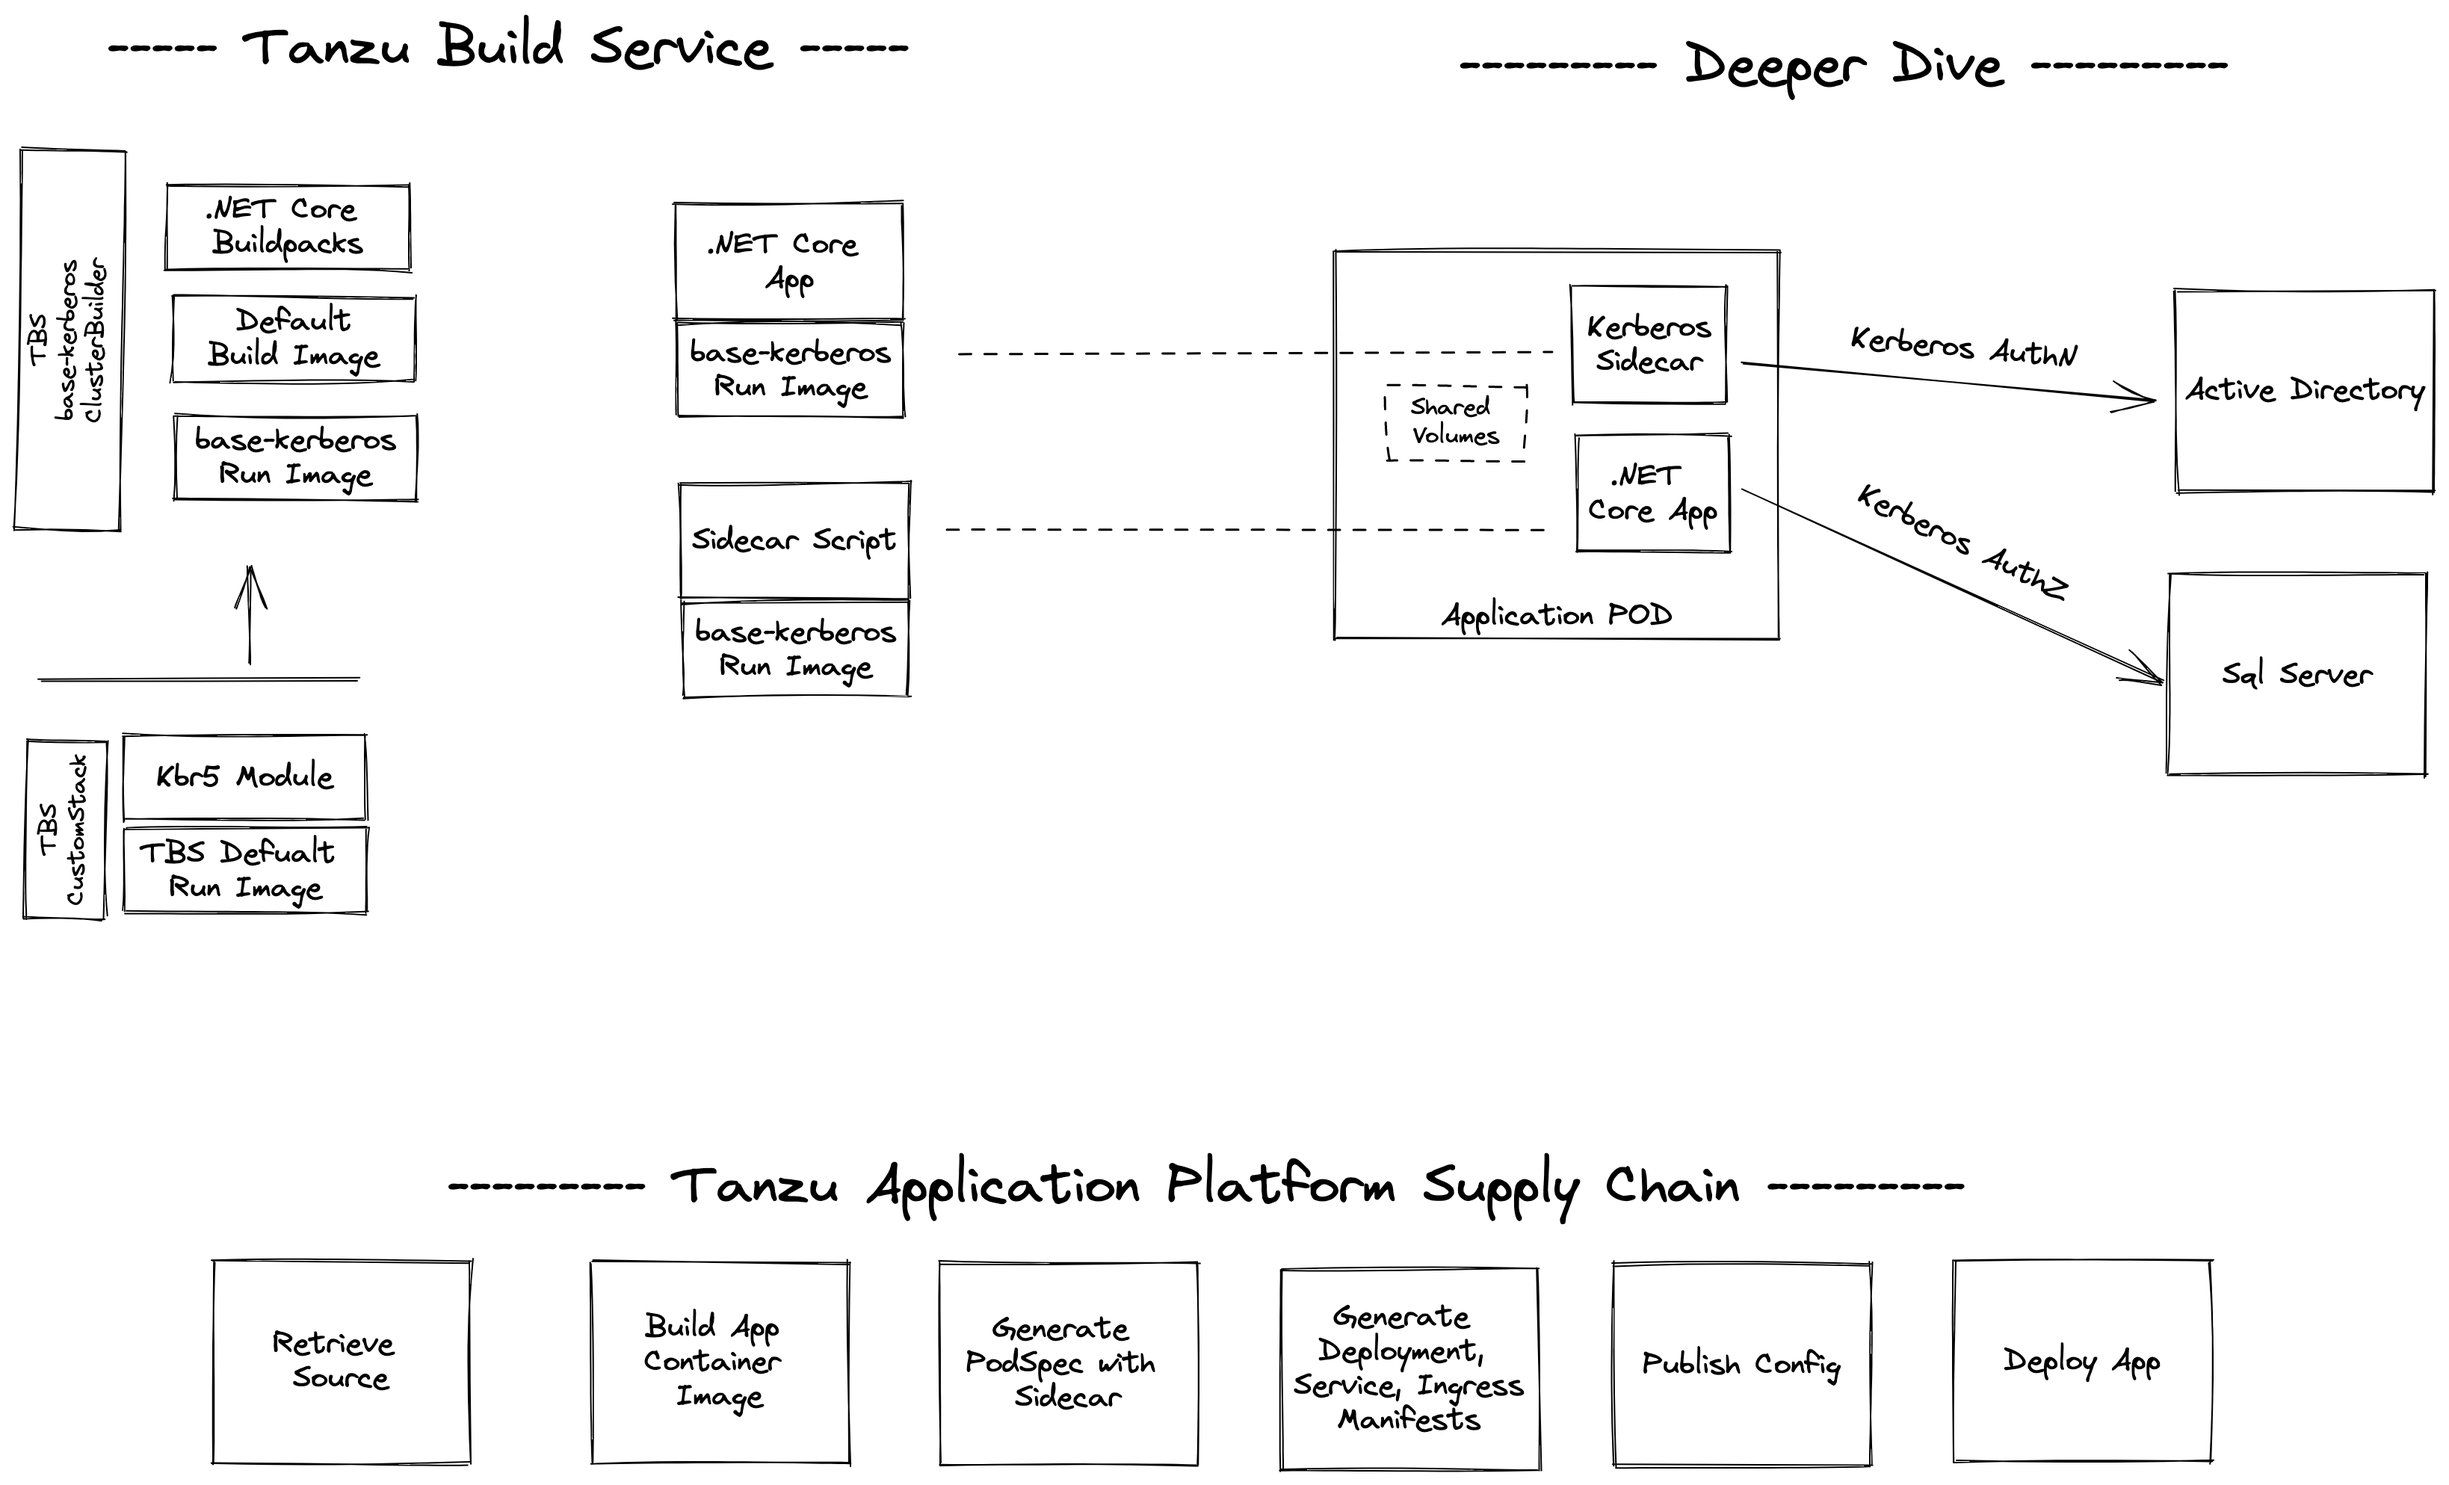
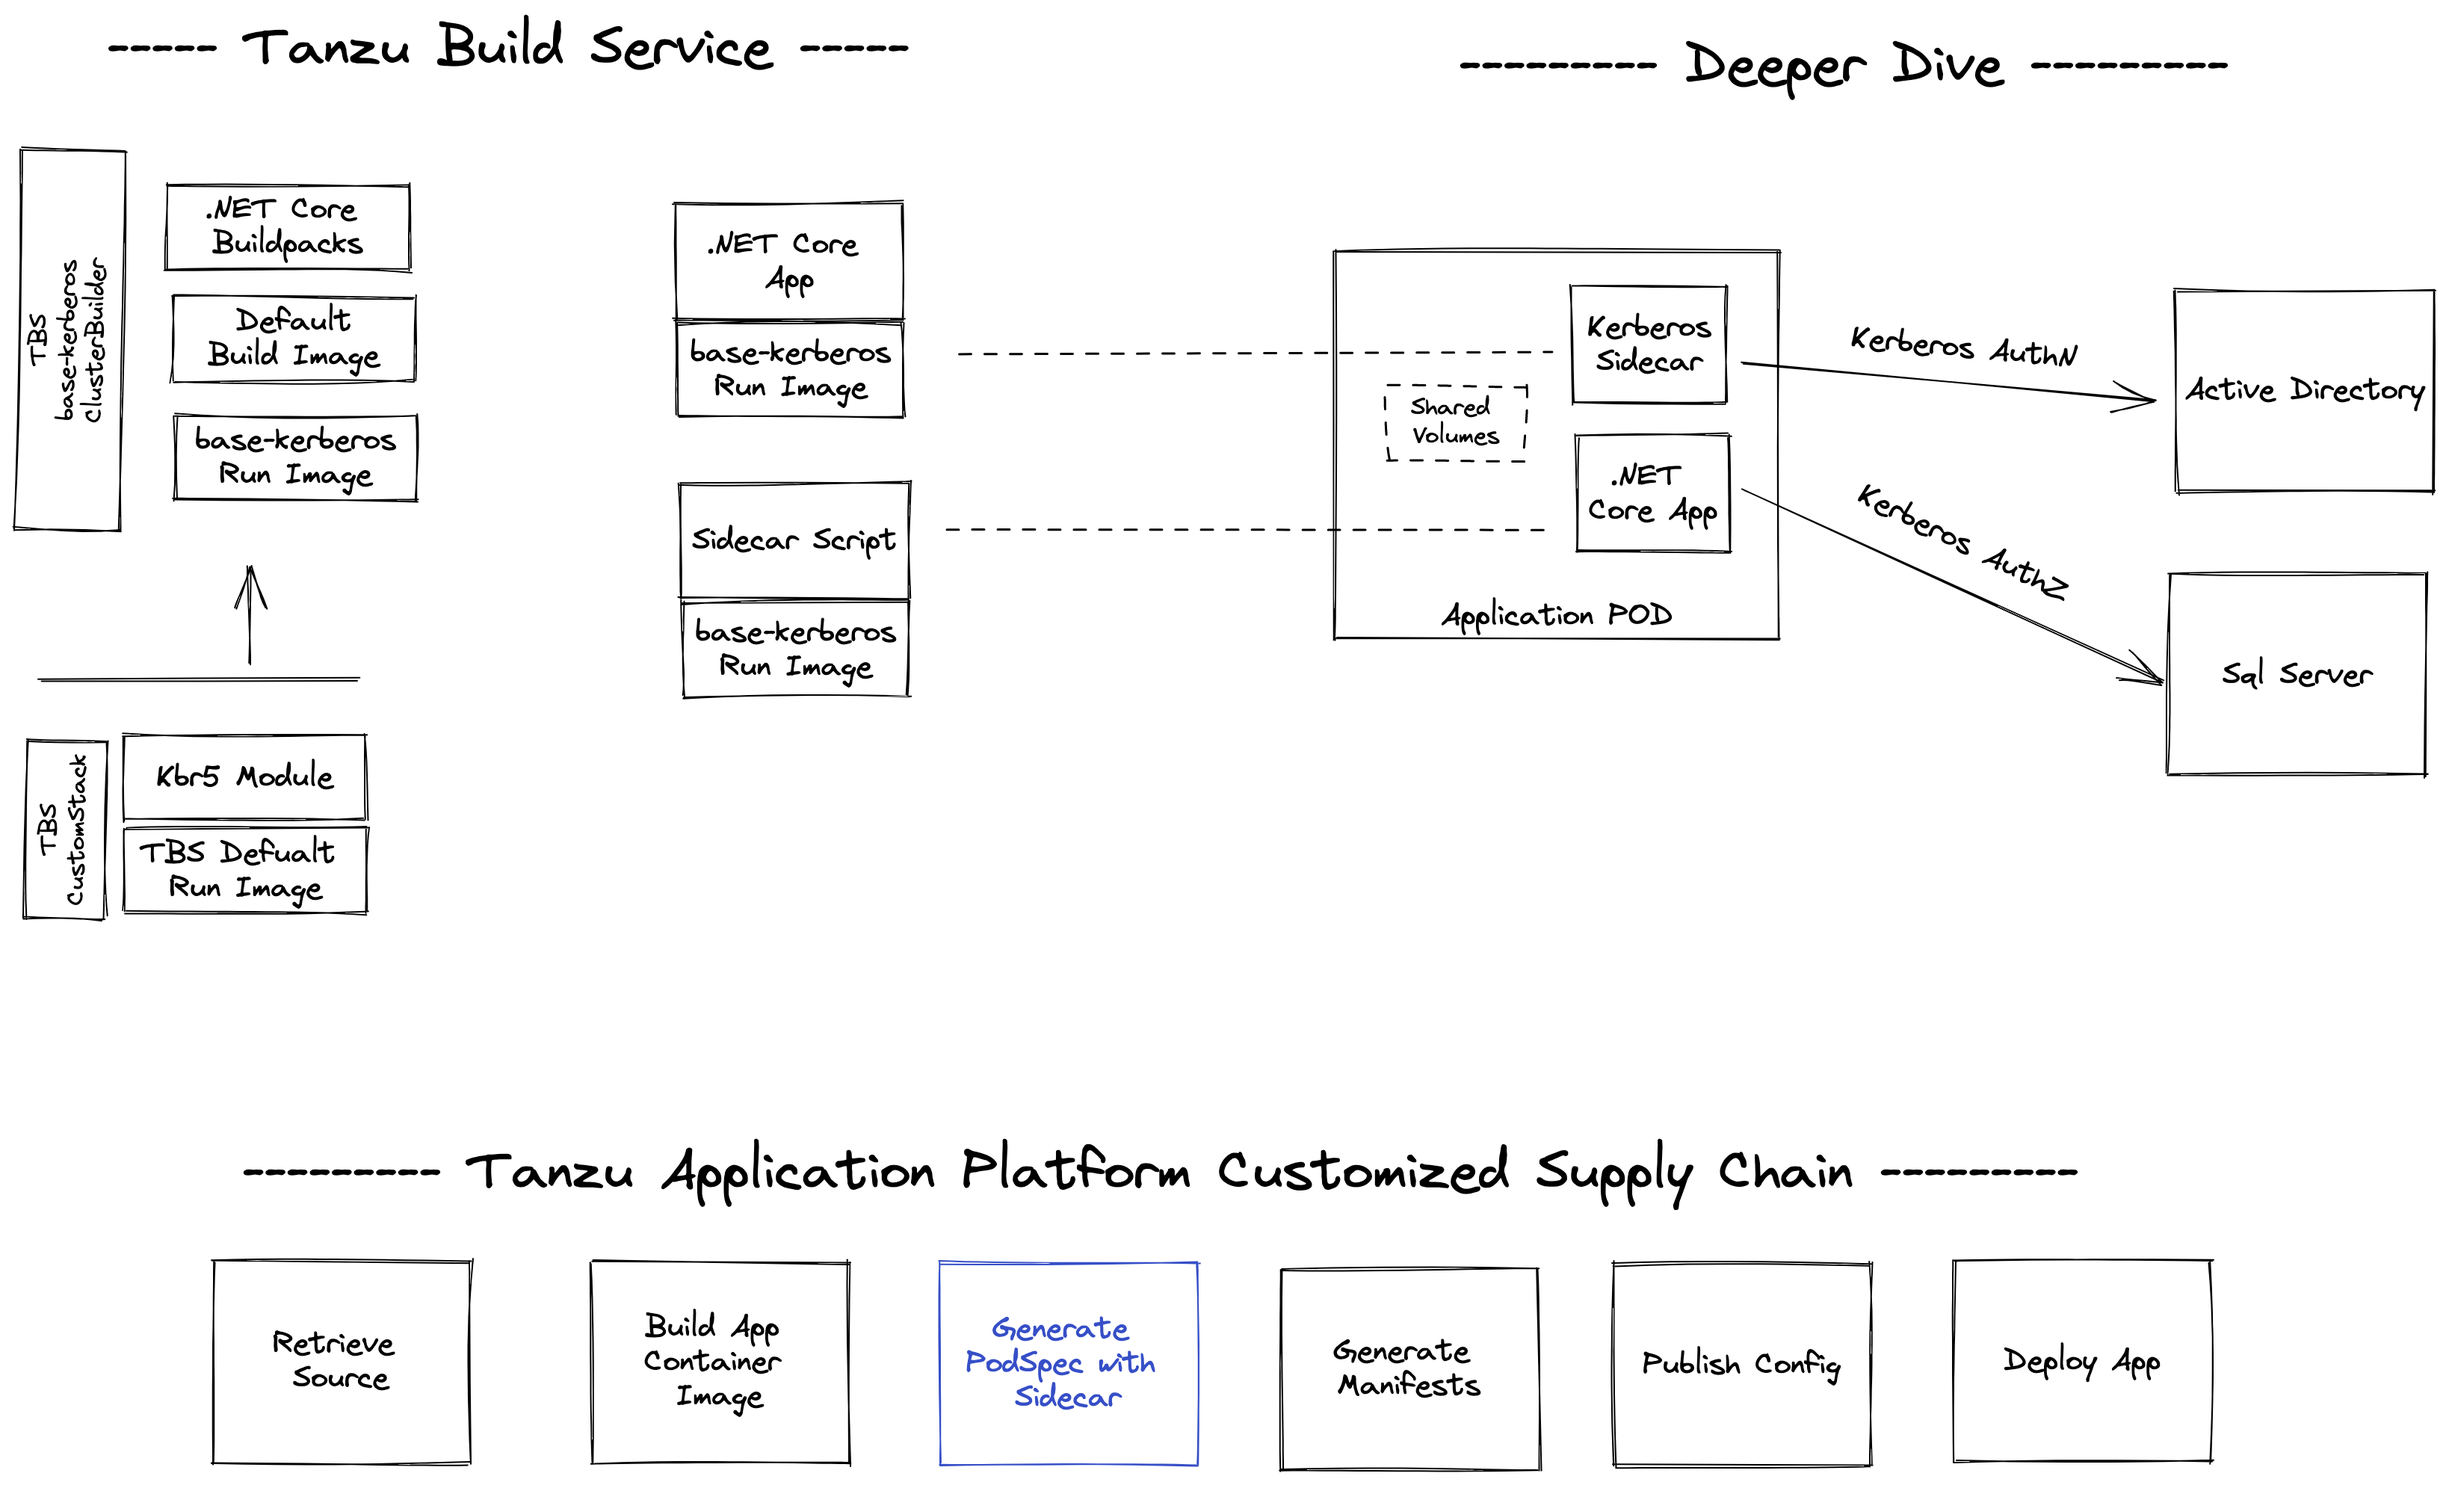
Updates to leverage knative service

Changed region(s): [[0.1245, 0.7801, 0.8404, 0.8113], [0.5291, 0.8737, 0.6225, 0.9673], [0.4046, 0.8737, 0.4669, 0.9673]]

diff --git a/guide.md b/guide.md
@@ -2,12 +2,6 @@
 
 ## Prerequisites
 
-This guide assumes that you have setup your Kubernetes cluster with:
-
-- `cert-manager` to generate valid certificates
-- `external-dns` to dynamically configure DNS entries for the test application access.
-- `contour` for ingress
-
 You have the following clis on your workstation:
 
 - `kp` for iteraction with Tanzu Build Service - https://network.tanzu.vmware.com/products/build-service/
@@ -17,7 +11,7 @@ You have the following clis on your workstation:
 
 The guide demonstrates an approach with and without Tanzu Application Platform.
 
-- `Tanzu Build Service` (w/o TAP) - For simplicity, you will be working within a single namespace that has the ability to create images (permissions to your git repo and registry setup) and run your application workload.
+- `Tanzu Build Service` and `Cloud Native Runtimes` (w/o TAP) - For simplicity, you will be working within a single namespace that has the ability to create images (permissions to your git repo and registry setup) and run your application workload as a Knative Service.
 - `Tanzu Application Platform` - Again, for simplicity, assumes a `full` profile.  You will be working within a developer namespace, and also require cluster admin access to updates supply chains.
 
 ### Setup environment
@@ -167,52 +161,46 @@ kp build logs kerberos-web-tbs -n $DEV_NAMESPACE
 
 ### 2. Deploy and Test Your .NET Core App
 
-Using the same approach as the our simple script based sidecar validation, we create a deployment for our .NET Core test app.  Here we expose the app via a service and ingress.  This .NET Core test app is adapted from the great work macsux did at [https://github.com/macsux/kerberos-buildpack](https://github.com/macsux/kerberos-buildpack).
-
+Using the same approach as the our simple script based sidecar validation, however, here we we create a Knative Service for our .NET Core test app.  This .NET Core test app is adapted from the great work macsux did at [https://github.com/macsux/kerberos-buildpack](https://github.com/macsux/kerberos-buildpack).
 
 ```bash
 # Create configmaps and secrets necessary for kerberos clients
 ytt -f kdc-client/kdc-client-dependencies.yaml --data-values-file $PARAMS_YAML | kubectl apply -n $DEV_NAMESPACE -f -
 
-# Apply the deployment, service, and ingress resources for the test app
+# Knative Service in TAP 1.3 does not allow for EmptyDir volumes by default. This must be enabed via feature flag.
+# Double-check that the feature flag is enabled.  Result of the following command should be "enabled".
+# If blank or "disabled" then you must configure CNRS appropriately.
+kubectl get cm config-features -n knative-serving -ojsonpath="{.data.kubernetes\.podspec-volumes-emptydir}"
+
+# Apply the kservice resources for the test app
 ytt -f test-app-tbs/test-app.yaml --data-values-file $PARAMS_YAML | kubectl apply -n $DEV_NAMESPACE -f -
 
-# Validate the deployment is up and running
-kubectl get deployment kerberos-web-tbs -n $DEV_NAMESPACE
+# Validate the kservice is up and READY
+kubectl get kservice kerberos-web-tbs -n $DEV_NAMESPACE
 
 # Check the app and you should see valid ticket diagnostic information
-open https://kerberos-web-tbs.$(yq e .base_url $PARAMS_YAML)
+open $(kubectl get kservice kerberos-web-tbs -n $DEV_NAMESPACE -ojsonpath="{.status.url}")
 ```
 
 # Tanzu Application Platform Method
 
 Amoung many benefits, Tanzu Application Platform provides a secure supply chain for your application.  Relevent to this guide, the OOTB source-to-url supply chain allows developers to submit a Workload resource with reference to their application source code, and then TAP's Supply Chain Choreographer automates the steps to retrieve your source code, build the application, create a secure container, generage kubernetes manifests to run your application, and then deploy the app.
 
-The default OOTB basic supply chain is almost perfect, however it not aware of our kerberos sidecar requirement.  However, as TAP is a programable platform, allowing platform engineers the ability to configure TAP for their unique reqirements.  We need the PodSpec to include the sidecar container and the requisite volume definions.  Since [Knative Services do not support sidecar containers](https://knative.tips/pod-config/multiple-containers/), we also need the app configuration to generate a deployment, with an associated service and ingress resource.  Here is the approach given.
+The default OOTB basic supply chain is almost perfect, however it not aware of our kerberos sidecar requirement.  However, as TAP is a programable platform, allowing platform engineers the ability to configure TAP for their unique reqirements.  We need the PodSpec to include the sidecar container and the requisite volume definions.  Here is the approach given.
 
 - Create a custom ClusterConfigTemplate for the unique requirements of our PodSpec
-- Create a custom ClusterConfigTemplate to generate the Deployment, Service, and Ingress.  This is modeled mostly on the existing ClusterConfigTemplate that supports the OOTB `server` workload type.
 - Create a custom Supply chain. Clone the source-to-image supply chain.  Update the workload type.  Then swap out references for our replacement ClusterConfigTemplates.
 
 ### 1. Create Custom Convention Template, Cluster Template, and Supply Chain
 
-Create the new templates and supply chain.  These need cusotmizations based upon our environment information in params.yaml file.  When executing these steps, you are logically assuming the role of a platform engineer.
+Create the new template and supply chain.  These need cusotmizations based upon our environment information in params.yaml file.  When executing these steps, you are logically assuming the role of a platform engineer.
 
 ```bash
-ytt -f supply-chain/kerberos-config-template.yaml --data-values-file $PARAMS_YAML | kubectl apply -f -
 ytt -f supply-chain/kerberos-convention-template.yaml --data-values-file $PARAMS_YAML | kubectl apply -f -
 kubectl apply -f supply-chain/kerberos-web-supply-chain.yaml
 ```
 
-### 2. Update Developer Namespace Permissions
-
-The OOTB permissions provide access only for the expected resources that the supply chain would create in your developer namespace.  We have not introduced an ingress resource, which TAP's Supply Chain Choreographer was not previously entitled to create.  For simplicity, let's simply add the ability to edit Ingresses to the default service account in your namespace.
-
-```bash
-kubectl apply -f tap/additional-supply-chain-rbac.yaml -n $DEV_NAMESPACE
-```
-
-### 3. Submit Workload
+### 2. Submit Workload
 
 Now it is time to put on your application developer hat.  Submit your worklaod.
 
@@ -228,5 +216,5 @@ tanzu apps workload get kerberos-web -n $DEV_NAMESPACE
 tanzu apps workload tail kerberos-web -n $DEV_NAMESPACE
 
 # Check the app and you should see valid ticket diagnostic information
-open https://kerberos-web.$DEV_NAMESPACE.$(yq e .base_url $PARAMS_YAML)
+open $(kubectl get kservice kerberos-web -n $DEV_NAMESPACE -ojsonpath="{.status.url}")
 ```

diff --git a/Readme.md b/Readme.md
@@ -14,7 +14,7 @@ Why is this novel and warrant a specific solution?  It is quite common for .NET 
 - The TBS base stack was customized using CustomStack to add the kerberos linux module
 - The .NET Core test application uses a solution-project structure
 - A Kerberos sidecar container is responsible for retrieving and refreshing kerberos ticket
-- A Customized TAP Supply Chain generates a deployment with the kerberos sidecar container
+- A Customized TAP Supply Chain generates a kservice with the kerberos sidecar container
 
 ![Solution](docs/solution.png)
 
